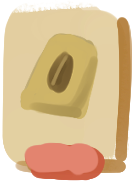
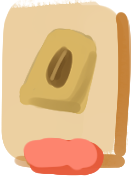
When player !hasEnoughMoney to buy seed, shopButtonImage changes to dark to show disabled

diff --git a/Plant.java b/Plant.java
@@ -1,4 +1,5 @@
 import greenfoot.*;  // (World, Actor, GreenfootImage, Greenfoot and MouseInfo)
+import java.time.Instant;
 
 /**
  * Each plant that the player grows.
@@ -10,6 +11,9 @@ public class Plant extends Actor
 {
     // p variable accesses the object at the index of the plantData[] array in PlayerData that this plant's variables are saved into
     PlantData p;
+    
+    // Create waterIcon associated with this plant instance
+    public WaterIcon waterIcon;
         
     
     SimpleTimer waterTimer = new SimpleTimer();
@@ -34,6 +38,8 @@ public class Plant extends Actor
         
         this.potInstance = potInstance;
         
+        waterIcon = new WaterIcon();
+        
         p = PlayerDataManager.getPlayerData().plantData[potInstance.index];
         
         // Load plant growth images depending on plant species
@@ -45,6 +51,12 @@ public class Plant extends Actor
             //yAdjust = new int[]{-35, -40, -60, -75, -75};
             value = 100;
         }
+        
+        // Get the current epoch time in seconds
+        long epochSeconds = Instant.now().getEpochSecond();
+        
+        // lastWateredTime is now!
+        p.lastWateredTime = epochSeconds;
     }
     
     public void act()
@@ -71,19 +83,17 @@ public class Plant extends Actor
         // Plant becomes thirsty again after every 10 000 milliseconds
         if(!p.thirsty) {
             // Since not thirsty, set water icon to be transparent
-            potInstance.waterIcon.transparency = 0;
+            waterIcon.transparency = 0;
             if(waterTimer.millisElapsed() < 1000) { // 10000
                 return;
             }
             p.thirsty = true;
-            System.out.println("thirsty");
-            System.out.println("!");
         }
         waterTimer.mark(); // reset waterTimer
         
         // If thirsty, make water icon appear
         if(p.thirsty) {
-            potInstance.waterIcon.transparency = 255;
+            waterIcon.transparency = 255;
         }
         
         // If right click on plant, sell plant, but only if full grown
@@ -93,8 +103,6 @@ public class Plant extends Actor
                 sellPlant();
             }
         }
-        
-        //saveData();
     }
     
     public void waterPlant() {
@@ -105,19 +113,23 @@ public class Plant extends Actor
     
     public void sellPlant() {
         MyWorld.instance.removeObject(this);
-        MyWorld.instance.removeObject(this.potInstance.waterIcon);
+        MyWorld.instance.removeObject(waterIcon);
         potInstance.hasPlant = false;
         EconomyManager.addMoney(value);
-        p = null;
-        System.out.println(p);
-        System.out.println("Sold!");
+        PlayerDataManager.getPlayerData().plantData[potInstance.index] = null;
     }
     
-    /*
+    /* Just in case I implement manual saving
     public void saveData() {
         if(p == null) {
             p = new PlantData();
         }
     }
     */
+   
+   /*
+   public boolean isThirsty() {
+       
+   }
+   */
 }

diff --git a/ShopButton.java b/ShopButton.java
@@ -10,16 +10,21 @@ public class ShopButton extends Actor
 {
     public int price;
     public String item;
+    public boolean isDisabled = false;
     
     public Label priceLabel;
     
     GreenfootImage shopButtonImage;
+    GreenfootImage shopButtonImageDark; // icon for when button is disabled
     
     public ShopButton(String item) {
         this.item = item;
         shopButtonImage = new GreenfootImage("images/shop/shop_item_" + item + ".png");
         shopButtonImage.scale((int) (MyWorld.instance.scale * (double) shopButtonImage.getWidth()), (int) ((double) MyWorld.instance.scale * shopButtonImage.getHeight()));
         setImage(shopButtonImage);
+        
+        shopButtonImageDark = new GreenfootImage("images/shop/shop_item_" + item + "_dark.png");
+        shopButtonImageDark.scale((int) (MyWorld.instance.scale * (double) shopButtonImageDark.getWidth()), (int) ((double) MyWorld.instance.scale * shopButtonImageDark.getHeight()));
         
         // Set price
         if(item.equals("seeds")) {
@@ -55,15 +60,27 @@ public class ShopButton extends Actor
                 }
             }
         }
+        
+        // Set icon image to regular (enabled) or dark (disabled) depending on whether or not player has enough money to buy
+        if(!isDisabled && !EconomyManager.hasEnoughMoney(this.price)) {
+            setImage(shopButtonImageDark);
+            isDisabled = true;
+        }
+        if(isDisabled && EconomyManager.hasEnoughMoney(this.price)) {
+            setImage(shopButtonImage);
+            isDisabled = false;
+        }
     }
     
     public void show() {
         shopButtonImage.setTransparency(255);
+        shopButtonImageDark.setTransparency(255);
         priceLabel.setFillColor(new Color(236, 206, 159, 255));
     }
     
     public void hide() {
         shopButtonImage.setTransparency(0);
+        shopButtonImageDark.setTransparency(0);
         priceLabel.setFillColor(new Color(236, 206, 159, 0));
     }
 }

diff --git a/Pot.java b/Pot.java
@@ -13,7 +13,7 @@ public class Pot extends Actor
     
     // Create plant and waterIcon variables. plants and waterIcons now belong to each pot instance
     public Plant plant;
-    public WaterIcon waterIcon;
+    
     
     
     private GreenfootImage potImage;
@@ -25,8 +25,6 @@ public class Pot extends Actor
         potImage = new GreenfootImage("images/pot.png");
         potImage.scale((int) (MyWorld.instance.scale * (double) potImage.getWidth()), (int) ((double) MyWorld.instance.scale * potImage.getHeight()));
         setImage(potImage);
-        
-        
     }
     
     public void act()
@@ -46,10 +44,9 @@ public class Pot extends Actor
         MyWorld.instance.addObject(plant, plantX, plantY);
         
         // Create plant's waterIcon
-        waterIcon = new WaterIcon();
         int waterIconX = plantX + 30;
         int waterIconY = plantY + 20;
-        MyWorld.instance.addObject(waterIcon, waterIconX, waterIconY);
+        MyWorld.instance.addObject(plant.waterIcon, waterIconX, waterIconY);
     }
     
     // creates new plant data

diff --git a/PlantData.java b/PlantData.java
@@ -12,11 +12,15 @@ public class PlantData implements Serializable
     
     public boolean thirsty = false;
     
+    public long lastWateredTime;
+    
     public int age = 0;
     public int growthStage = 0; // growthStage determines image to use for plant, as well as amount of y to adjust from pot
     
     // Plant species
     public String species = "";
+    
+    
     
     
 

diff --git a/MyWorld.java b/MyWorld.java
@@ -71,8 +71,6 @@ public class MyWorld extends World
         
         // Set order of object images
         setPaintOrder(Label.class, ShopButton.class, ShopMenu.class, Shop.class, Seed.class, WateringCan.class, WaterIcon.class, Pot.class, Plant.class);
-        
-        System.out.println("myworldhaahha");
     }
     
     public void stopped() {

diff --git a/TitleScreen.java b/TitleScreen.java
@@ -25,7 +25,6 @@ public class TitleScreen extends World
         if(Greenfoot.isKeyDown("space")) {
             MyWorld gameWorld = new MyWorld();
             Greenfoot.setWorld(gameWorld);
-            System.out.println("acting");
         }
     }
 }
